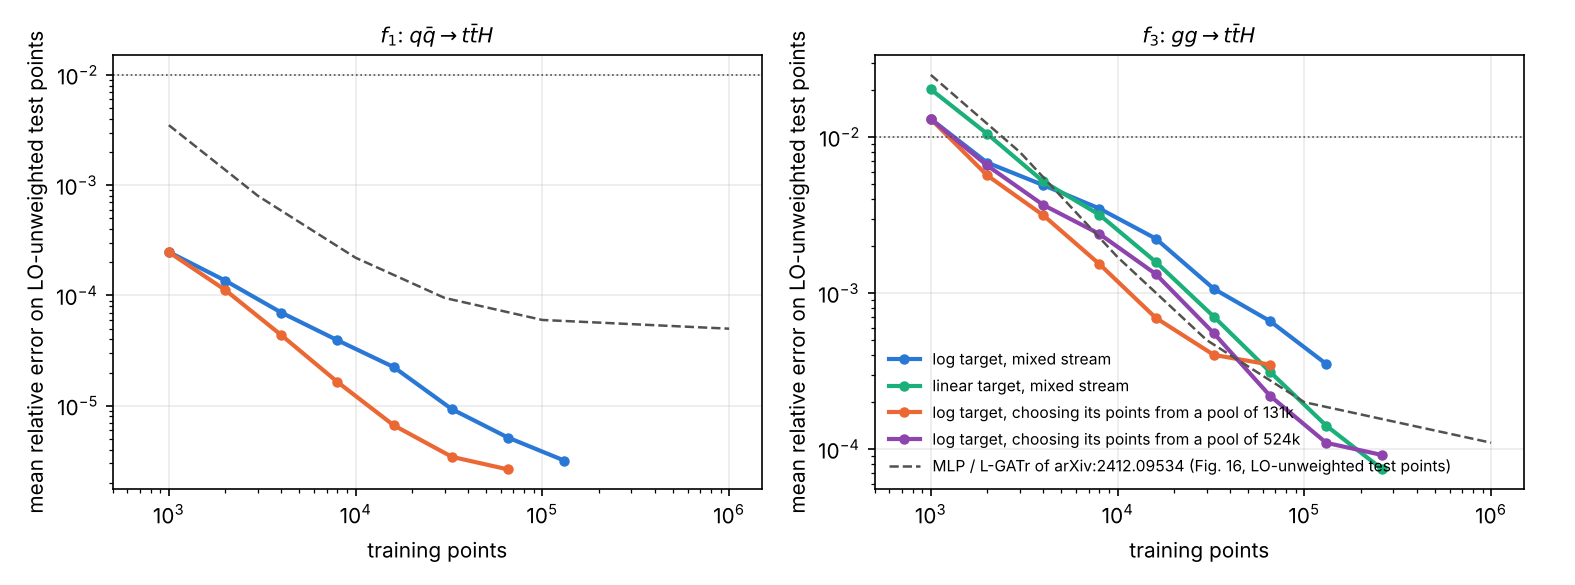
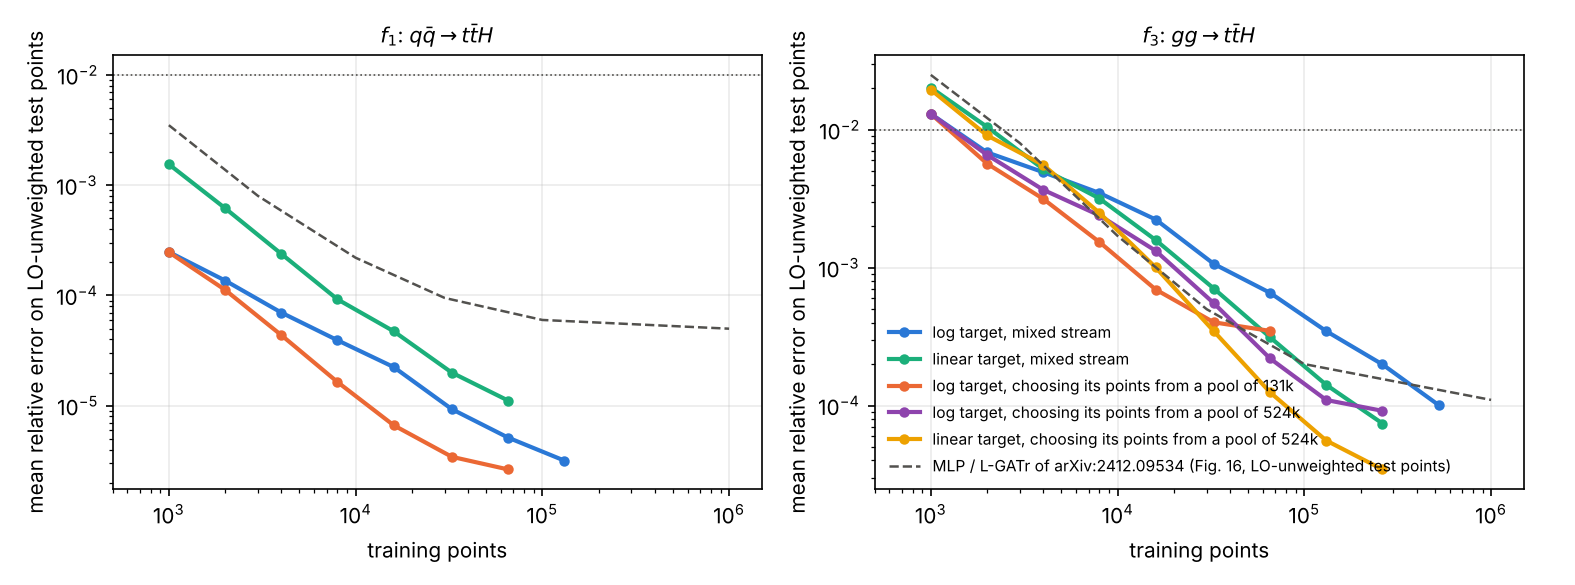
Finish the high-N and target write-up: linear target with acquisition at 262 144 points
Claude-Session: https://claude.ai/code/session_0153hpVKJ5JPDq5CRhfaL7QL

diff --git a/examples/BENCHMARK_RESULTS_tth_amplitude.md b/examples/BENCHMARK_RESULTS_tth_amplitude.md
@@ -85,7 +85,8 @@ every row.
   4·10⁵ points (1.0e-4 at 524 288, Section 2.6); choosing its points from a large
   enough pool it is ahead from 65 536 on (2.2e-4 against 2.7e-4; 1.1e-4 at
   131 072), and with the linear target of Section 2.7 it is three times below them
-  at 131 072 (5.2e-5). The 1000-point leaves that help f1 hurt f3 here (4.5e-4):
+  at 131 072 (5.2e-5) and four times below at 262 144 (3.4e-5). The 1000-point
+  leaves that help f1 hurt f3 here (4.5e-4):
   under the pseudo-PDF the error that counts sits at low β², near threshold, where
   the amplitude varies fastest and the smaller, more often refitted leaves do
   better. The networks' f3 curve flattens (1.9e-4 at 10⁵, 1.1e-4 at 10⁶) while the
@@ -258,7 +259,7 @@ LO-unweighted test points:
 | log target, choosing its points from a pool of 131 072 | 3.5e-4 | – | – | – |
 | log target, choosing its points from a pool of 524 288 | 2.2e-4 | 1.1e-4 | 9.2e-5 | – |
 | linear target (Section 2.7), mixed stream | 3.1e-4 | 1.4e-4 | 7.4e-5 | – |
-| linear target, choosing its points from a pool of 524 288 | 1.2e-4 | 5.2e-5 | TBD_LINACQ262 | – |
+| linear target, choosing its points from a pool of 524 288 | 1.2e-4 | 5.2e-5 | 3.4e-5 | – |
 | MLP(s) / L-GATr, Fig. 16 (1.1e-4 at 10⁶) | 2.7e-4 | 1.6e-4 | 1.4e-4 | 1.25e-4 |
 
 * **The plain stream crosses the networks' curve at about 4·10⁵ points.** The log
@@ -278,8 +279,9 @@ LO-unweighted test points:
   the tree's.
 * **With the linear target of Section 2.7 the tree is ahead at every N above
   65 536**: 1.4e-4 on the plain stream at 131 072 and 7.4e-5 at 262 144, and
-  5.2e-5 at 131 072 choosing its points, three times below the networks at that N
-  and half their value at a million points.
+  choosing its points 5.2e-5 at 131 072 (5.6e-5 in a repeat run) and 3.4e-5 at
+  262 144, four times below the networks at that N and a third of their value at
+  a million points, still falling as N⁻⁰·⁷ as the pool empties.
 
 ### 2.7 The target: log |M|², mass-scaled, or linear
 
